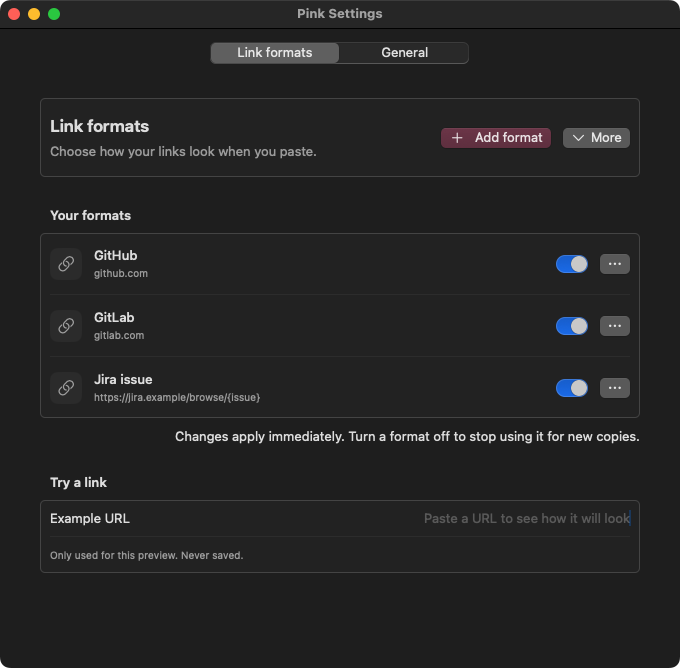
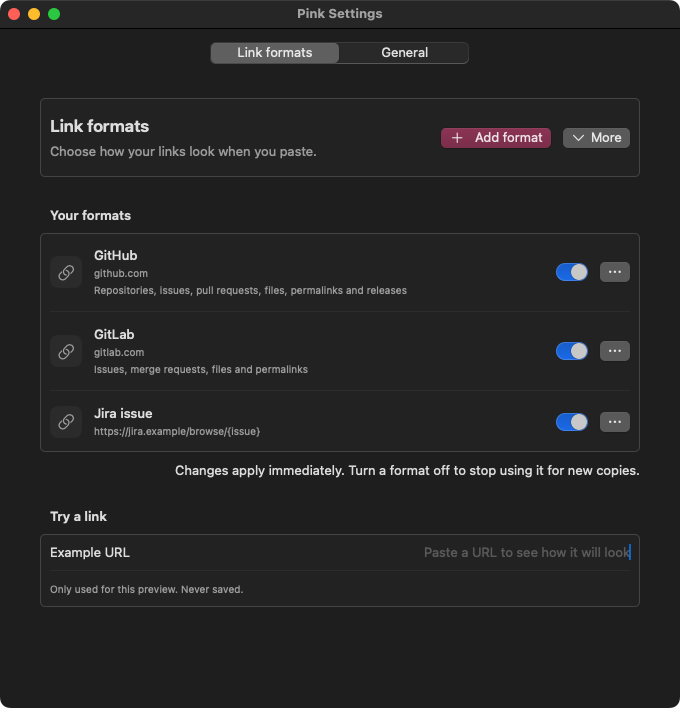
docs: show brighter rose and default website capabilities

diff --git a/README.md b/README.md
@@ -30,11 +30,11 @@ Pink makes long links easier to read in messages, notes and reviews. Copy normal
       <td><a href="https://github.com/acme/widget/blob/main/Sources/App.swift#L10-L20"><strong>acme/widget · main/Sources/App.swift:10–20</strong></a></td>
     </tr>
     <tr>
-      <td><code>https://github.com/<wbr>acme/widget/blob/<wbr>0123456789abcdef0123456789abcdef01234567/<wbr>Sources/App.swift#L10-L20</code></td>
+      <td><code>https://github.com/<wbr>acme/widget/blob/<wbr>0123456789ab<wbr>cdef01234567<wbr>89abcdef01234567/<wbr>Sources/App.swift#L10-L20</code></td>
       <td><a href="https://github.com/acme/widget/blob/0123456789abcdef0123456789abcdef01234567/Sources/App.swift#L10-L20"><strong>acme/widget · 0123456789ab/Sources/App.swift:10–20</strong></a></td>
     </tr>
     <tr>
-      <td><code>https://gitlab.com/<wbr>team/platform/api/-/blob/<wbr>main/Sources/App.swift#L10-20</code></td>
+      <td><code>https://gitlab.com/<wbr>team/platform/api/<wbr>-/blob/<wbr>main/Sources/App.swift#L10-20</code></td>
       <td><a href="https://gitlab.com/team/platform/api/-/blob/main/Sources/App.swift#L10-20"><strong>team/platform/api · main/Sources/App.swift:10–20</strong></a></td>
     </tr>
     <tr>
@@ -70,7 +70,7 @@ Pink works with single links, repeated links and multiline prose. It stays in yo
   <tr><th>In the menu bar</th><th>Your link formats</th></tr>
   <tr>
     <td align="center" valign="top"><a href="docs/images/menu-bar.png"><picture><source media="(prefers-color-scheme: dark)" srcset="docs/images/dark/menu-bar.png"><img src="docs/images/menu-bar.png" width="261" alt="Pink’s menu with formatting, restore, settings and update actions."></picture></a></td>
-    <td align="center" valign="top"><a href="docs/images/settings.png"><picture><source media="(prefers-color-scheme: dark)" srcset="docs/images/dark/settings.png"><img src="docs/images/settings.png" width="440" alt="Pink’s unified link format collection with GitHub, GitLab and Jira formats, Add format, a visible More menu, bordered row options and a shared preview."></picture></a></td>
+    <td align="center" valign="top"><a href="docs/images/settings.png"><picture><source media="(prefers-color-scheme: dark)" srcset="docs/images/dark/settings.png"><img src="docs/images/settings.png" width="440" alt="Pink’s unified link format collection with GitHub and GitLab included-format summaries, Jira, Add format, a visible More menu, bordered row options and a shared preview."></picture></a></td>
   </tr>
 </table>
 
@@ -140,7 +140,7 @@ Releases configured for signed in-app updates offer **Install Update**, then res
 
 ## Supported links
 
-`github.com` and `gitlab.com` are enabled by default over HTTPS. The GitHub bundle includes repositories, issues, pull requests, files, file permalinks and releases together; no per-kind setup is needed. Each website row lists its included formats. **More → Customize built-in styles** changes their appearance. Existing disabled website rules and custom choices are preserved.
+`github.com` and `gitlab.com` are enabled by default over HTTPS. The GitHub bundle includes repositories, issues, pull requests, files, file permalinks and releases together; no per-kind setup is needed. Each website row lists its included formats. **More → Customize built-in styles** changes their appearance. Existing disabled website rules and saved custom rules are retained. Explicitly preferred custom patterns still take priority.
 
 | Service | URL path | Short label |
 | --- | --- | --- |

diff --git a/docs/verification.md b/docs/verification.md
@@ -147,3 +147,14 @@ Local PASS: `make lint test` (55 portable Swift tests, 45 tooling tests), App sy
 Real native light/dark captures PASS in [run 139](https://github.com/mamachanko/pink/actions/runs/44262618716), source `3b87775925771bfdeed8e9f5e4bec9252acd8ba7`. All six PNGs were checksum-verified, visually reviewed and copied byte-for-byte into docs/images with source provenance. Review caught a remaining background seam and a split menu bezel in the first pass; the committed captures show a continuous settings surface and complete More button. The selected builder part has a checkmark as well as a subtle tint. Captures use the app's aqua/darkAqua appearance, synthetic settings and a named pasteboard; system preferences remain unchanged.
 
 PR #33 required checks record exact-head verification on both native architectures, packaging and both appearance captures. Screenshot review establishes these rendered states; interactive keyboard/VoiceOver and released-build acceptance were not performed in this Linux workspace.
+
+
+## File permalinks and included website formats — 2026-11-18
+
+The new portable regression suite reproduced 11 failures on the original implementation, including unformatted GitLab files, full-length SHA labels and invalid/reversed GitHub line hints. Local `make lint test` now passes 61 Swift tests and 45 tooling tests. Coverage includes fresh/decoded GitHub defaults without custom rules, preserved disabled rules, GitHub/GitLab file anchors, full SHA shortening, opaque branch paths, Unicode/encoded filenames, enterprise prefixes/ports, exact destinations, malformed anchors and numbers larger than integer limits. All nine README demo rows match the formatter and all 54 README references resolve; App syntax parsing passes.
+
+Current main's tool upgrades required two prerequisite repairs: official ShellCheck 0.11.0 checksums for all four supported archives (downloaded bytes independently verified), and the XcodeGen 2.47.0 dependency lock (only its two changed exact dependencies, with forced resolution checked). The first native capture failed on the stale XcodeGen lock before building Pink; repaired cold bootstrap and capture passed in [run 153](https://github.com/mamachanko/pink/actions/runs/44348759753).
+
+All six native PNGs from source `f8e5640b150006861d31a53eef1ef45c15a99e3f` were checksum-verified, visually reviewed in aqua/darkAqua and copied byte-for-byte into docs/images. Review confirms the brighter rose, included-format summaries, visible options and complete shared preview at the window's new minimum height. The base accent/white contrast is 4.80:1 before native rendering. No general clipboard access or system appearance/preference changes were used.
+
+PR #37 exact-head required checks cover both native architectures, packaging and both appearance captures. The new native test formats GitHub.com, GitHub Enterprise and GitLab permalinks on unique named pasteboards, checks RTF labels and complete original query/fragment targets, then restores the original payload. Interactive receiver/keyboard/VoiceOver and release-install acceptance were not performed here.

diff --git a/docs/images/README.md b/docs/images/README.md
@@ -3,7 +3,7 @@
 The README shows three real Pink views:
 
 - `menu-bar.png`: the menu-bar icon and formatting, settings and update actions.
-- `settings.png`: the unified Link formats collection, muted Add format action, visible More menu, bordered row options and shared preview.
+- `settings.png`: the unified Link formats collection, rose Add format action and included website formats, visible More menu, bordered row options and shared preview.
 - `link-formats.png`: the paste-first builder with a reserved-host Jira example. The issue key is selected automatically, the paste preview is visible, and the primary action is Use for Jira links. The selected part also has a checkmark. No pattern is supplied to the capture view.
 
 With Xcode 26.2 selected and the normal build prerequisites installed, run:
@@ -22,4 +22,4 @@ The README uses matching light and dark image sources. The dark capture sets onl
 
 CI sets `PINK_CAPTURE_TEXT_EXPORT=1` to emit checksum-tagged base64 copies of the four fixed synthetic demo outputs per appearance. This lets review tools inspect the original PNG bytes when artifact downloads are unavailable. Export is bounded to 1 MiB per file and never reads the general clipboard or user examples. Normal local captures omit this export.
 
-The committed images were captured on macOS 15.7.9 (24G830), Intel, with Xcode 26.2 in [CI run 139](https://github.com/mamachanko/pink/actions/runs/44262618716) at source PR head `3b87775925771bfdeed8e9f5e4bec9252acd8ba7`, then visually reviewed in light and dark appearance on 2026-11-18. See `capture.txt` for checksums and provenance.
+The committed images were captured on macOS 15.7.9 (24G830), Intel, with Xcode 26.2 in [CI run 153](https://github.com/mamachanko/pink/actions/runs/44348759753) at source PR head `f8e5640b150006861d31a53eef1ef45c15a99e3f`, then visually reviewed in light and dark appearance on 2026-11-18. See `capture.txt` for checksums and provenance.
